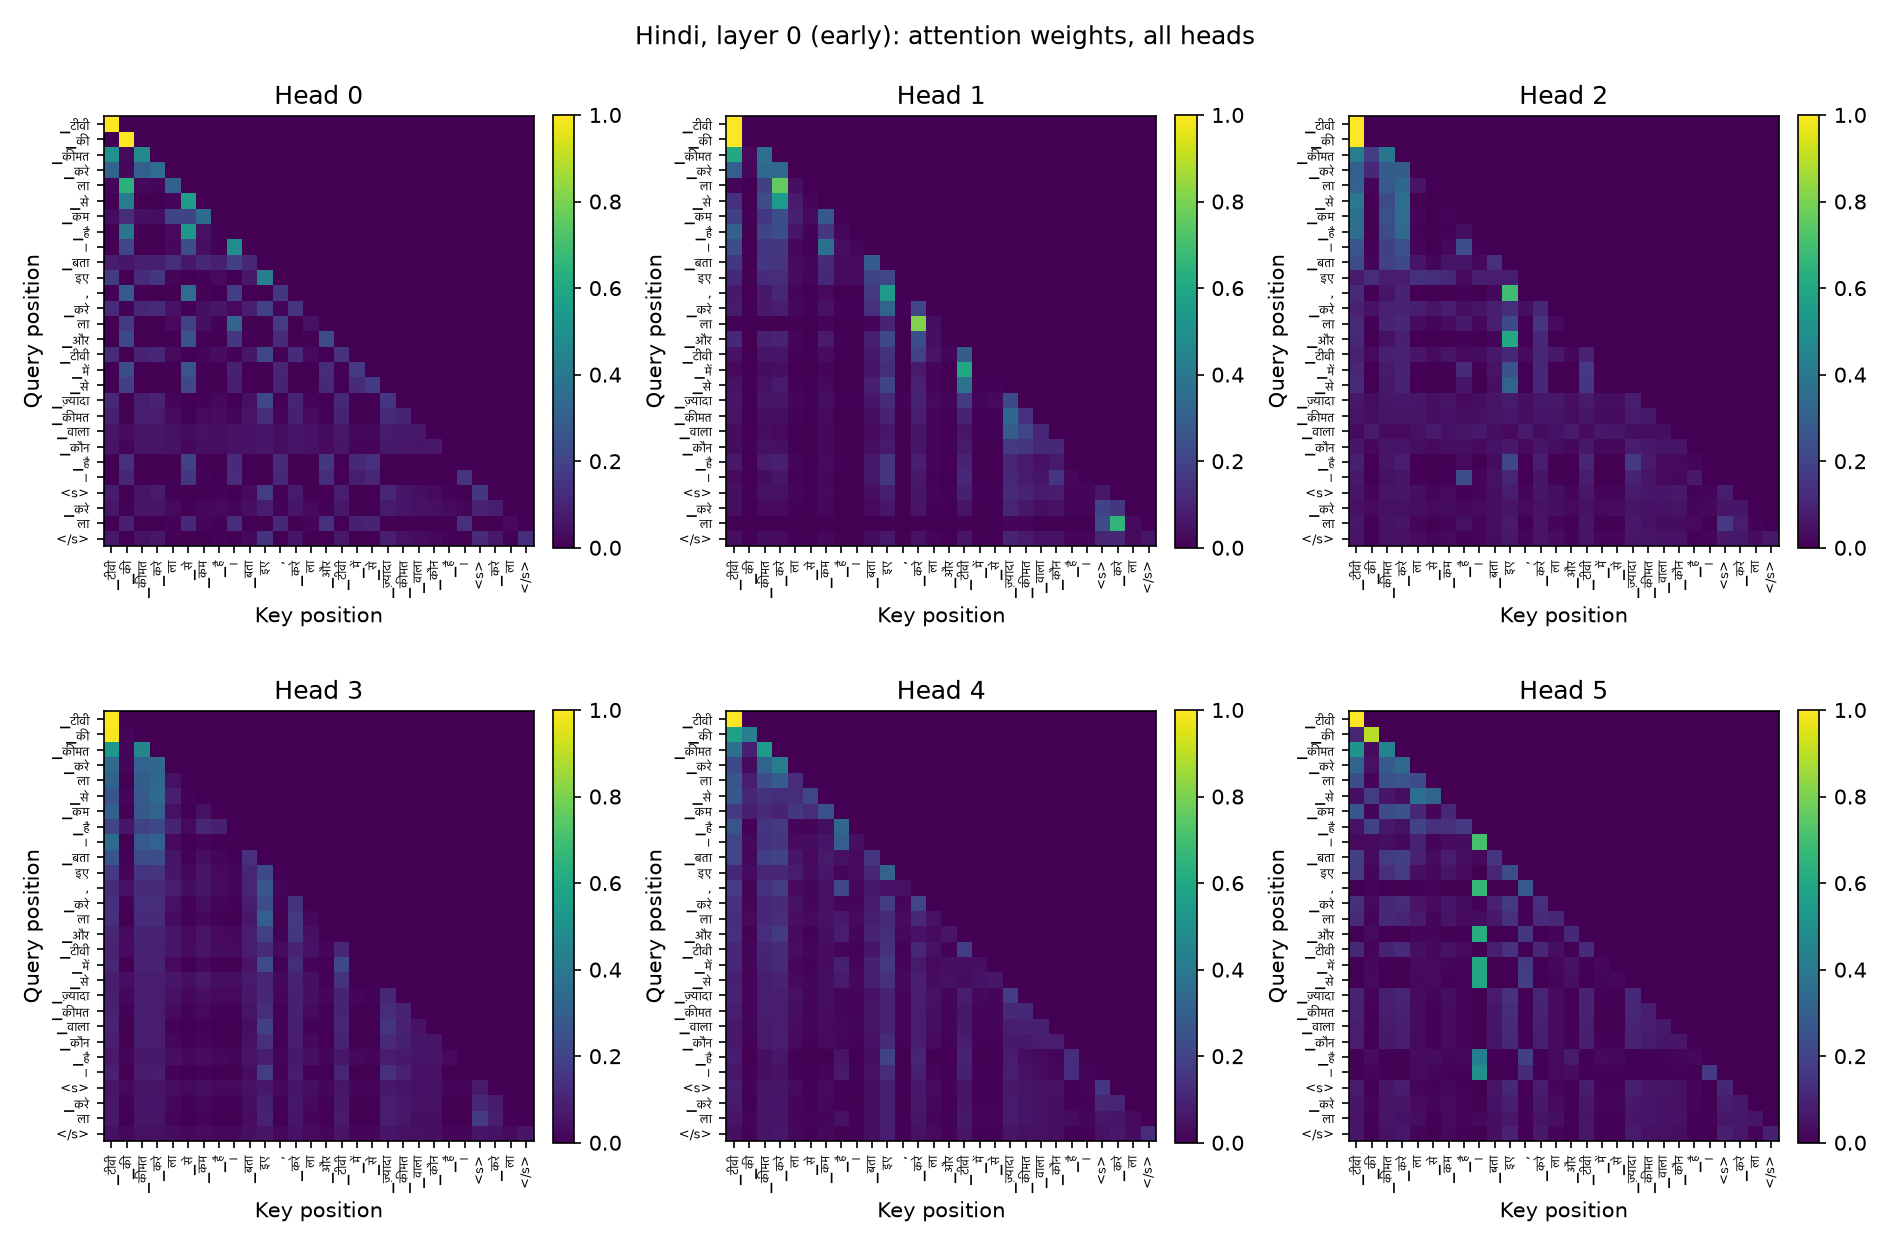
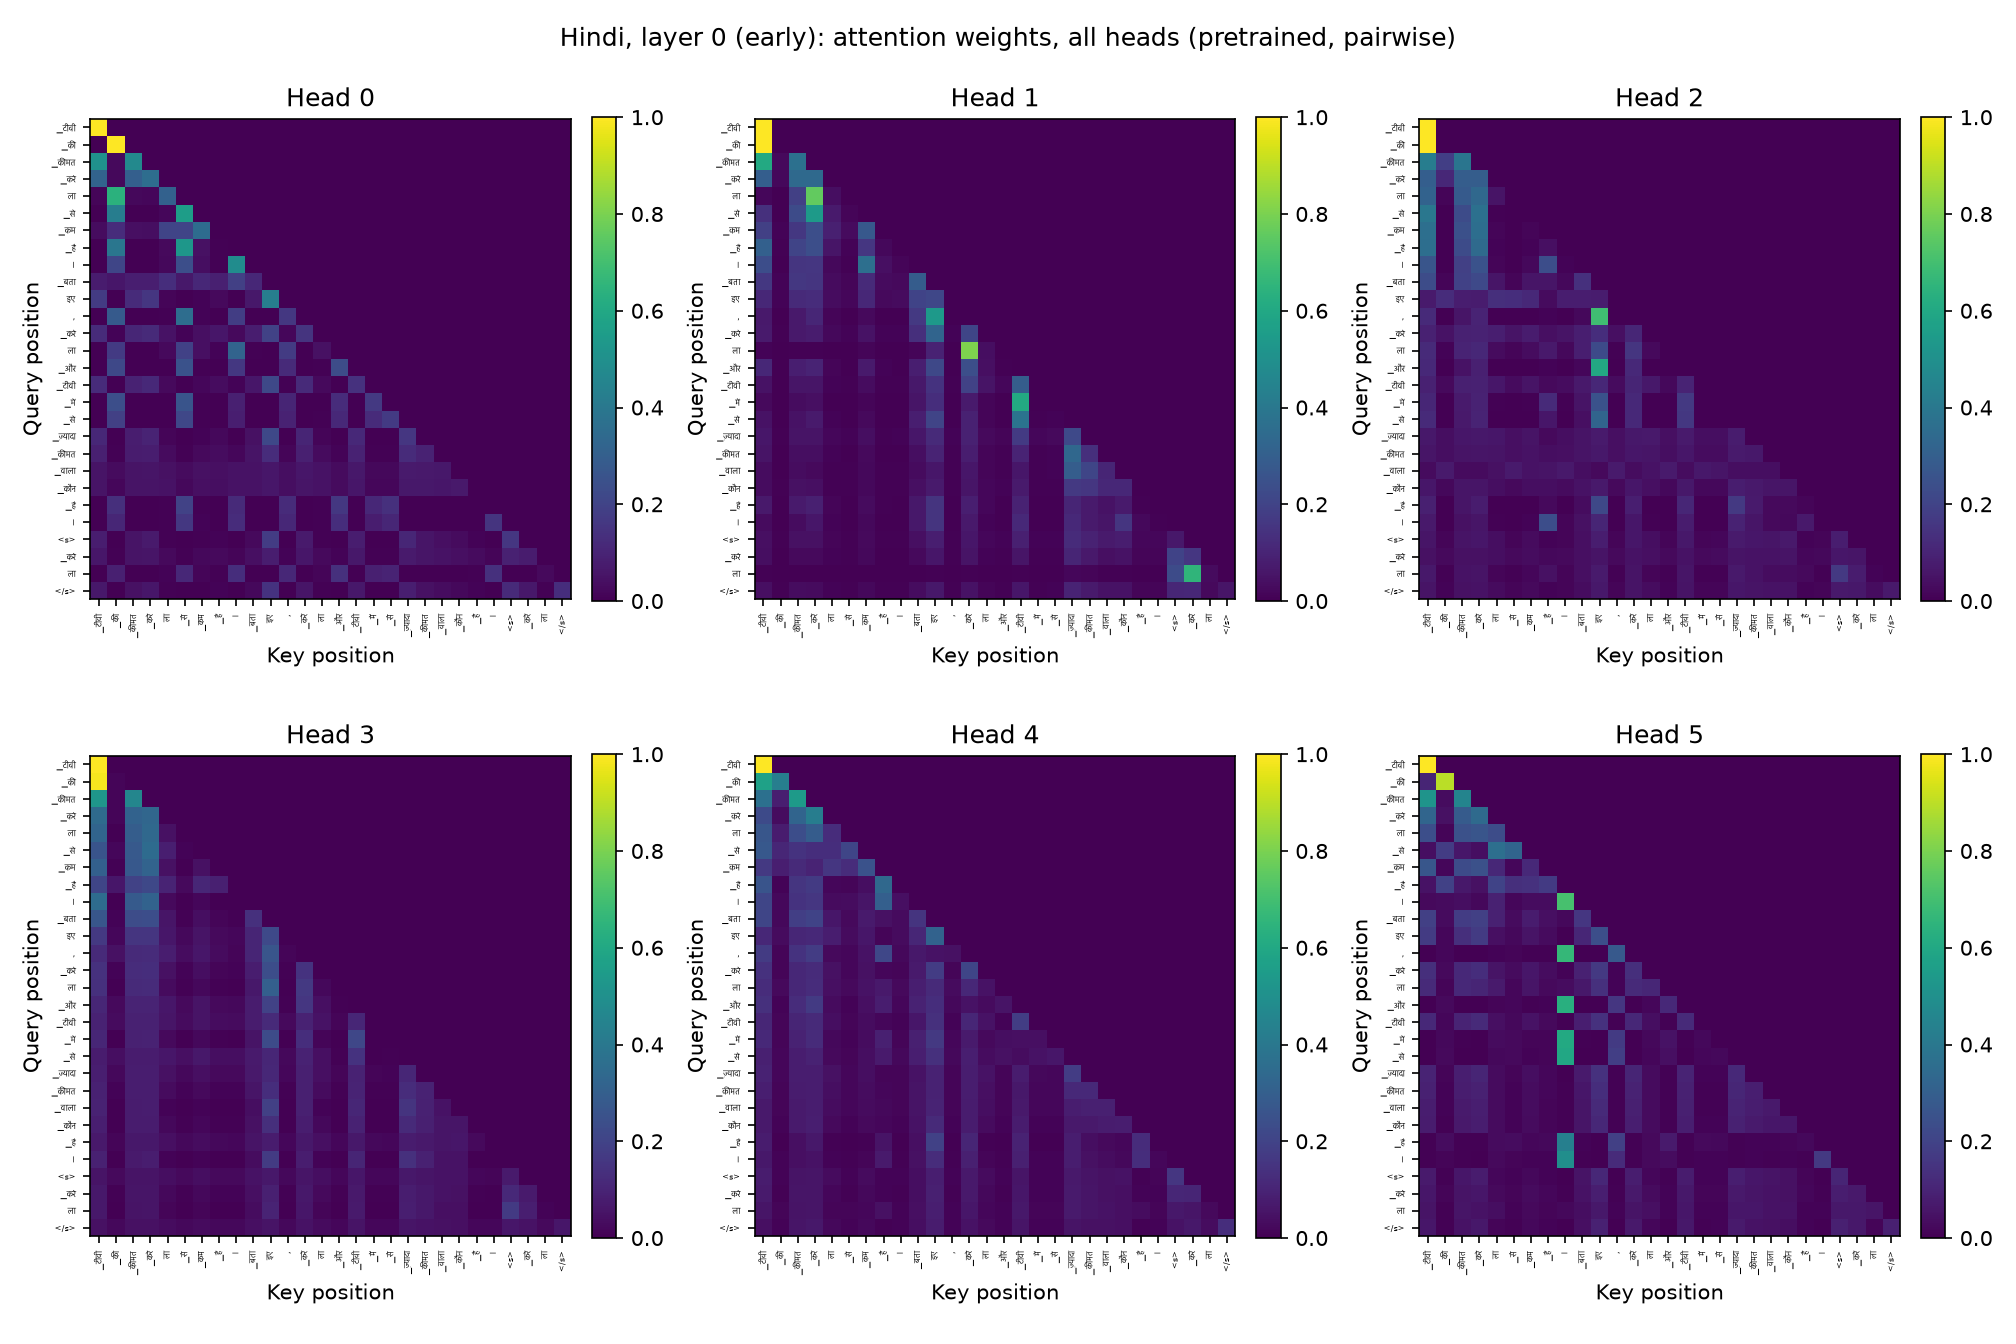
Fix attention heatmap tick overlap and add checkpoint labels to titles
Long reasoning sequences overlapped tick labels at fixed font/figure
size; scale both with sequence length. Titles now identify which
checkpoint and example type each figure shows.

Changed region(s): [[0.0, 0.0, 0.9989, 0.4952], [0.0, 0.5262, 0.9989, 0.9905], [0.8429, 0.3405, 0.8741, 0.3714]]

diff --git a/assamese/eval/attention_analysis.py b/assamese/eval/attention_analysis.py
@@ -125,28 +125,37 @@ def mean_attention_distance_per_head(attn_layer):
     return distances
 
 
-def plot_heatmaps(attn_layer, pieces, layer_label, out_path):
+def plot_heatmaps(attn_layer, pieces, layer_label, out_path, title_suffix=""):
     """One subplot per head, query (rows) vs key (columns) positions,
-    tick labels are the actual token pieces for this example sentence."""
+    tick labels are the actual token pieces for this example sentence.
+    title_suffix (e.g. "pretrained, chained") disambiguates which
+    checkpoint/example a figure came from, since the filename alone
+    isn't visible once the image is viewed on its own."""
     n_head, T, _ = attn_layer.shape
     ncols = min(3, n_head)
     nrows = (n_head + ncols - 1) // ncols
-    fig, axes = plt.subplots(nrows, ncols, figsize=(4.2 * ncols, 4.2 * nrows))
+    # Longer sequences (Phase 3 full prompt+answer, T ~50) need more room
+    # per token and a smaller font than Phase 2's short single sentences
+    # (T ~10-15) did, or tick labels overlap into unreadable text.
+    cell_in = max(4.2, T * 0.16)
+    tick_fontsize = 6 if T <= 20 else max(3, int(6 * 20 / T))
+    fig, axes = plt.subplots(nrows, ncols, figsize=(cell_in * ncols, cell_in * nrows))
     axes = axes.flatten() if n_head > 1 else [axes]
     for h in range(n_head):
         ax = axes[h]
         im = ax.imshow(attn_layer[h].numpy(), cmap="viridis", vmin=0, vmax=attn_layer[h].max().item())
         ax.set_xticks(range(T))
-        ax.set_xticklabels(pieces, rotation=90, fontsize=6)
+        ax.set_xticklabels(pieces, rotation=90, fontsize=tick_fontsize)
         ax.set_yticks(range(T))
-        ax.set_yticklabels(pieces, fontsize=6)
+        ax.set_yticklabels(pieces, fontsize=tick_fontsize)
         ax.set_xlabel("Key position")
         ax.set_ylabel("Query position")
         ax.set_title(f"Head {h}")
         fig.colorbar(im, ax=ax, fraction=0.046, pad=0.04)
     for h in range(n_head, len(axes)):
         axes[h].axis("off")
-    fig.suptitle(f"Assamese, {layer_label}: attention weights, all heads")
+    suffix = f" ({title_suffix})" if title_suffix else ""
+    fig.suptitle(f"Assamese, {layer_label}: attention weights, all heads{suffix}")
     fig.tight_layout()
     fig.savefig(out_path, dpi=150)
     plt.close(fig)
@@ -198,10 +207,11 @@ def run_with_examples(checkpoint_path, sp, examples, checkpoint_label=""):
             distance_by_layer[layer_idx].append(mean_attention_distance_per_head(attn_layer))
 
         if ex_idx == 0:
+            title_suffix = checkpoint_label.replace("_", ", ")
             plot_heatmaps(attentions[early_layer], pieces, f"layer {early_layer} (early)",
-                          FIGURES_DIR / f"{prefix}_early_layer{suffix}.png")
+                          FIGURES_DIR / f"{prefix}_early_layer{suffix}.png", title_suffix=title_suffix)
             plot_heatmaps(attentions[late_layer], pieces, f"layer {late_layer} (late)",
-                          FIGURES_DIR / f"{prefix}_late_layer{suffix}.png")
+                          FIGURES_DIR / f"{prefix}_late_layer{suffix}.png", title_suffix=title_suffix)
             print(f"heatmaps written for example: {seg_text[:60]}...")
 
     n_head = model_config["n_head"]

diff --git a/hindi/eval/attention_analysis.py b/hindi/eval/attention_analysis.py
@@ -125,28 +125,37 @@ def mean_attention_distance_per_head(attn_layer):
     return distances
 
 
-def plot_heatmaps(attn_layer, pieces, layer_label, out_path):
+def plot_heatmaps(attn_layer, pieces, layer_label, out_path, title_suffix=""):
     """One subplot per head, query (rows) vs key (columns) positions,
-    tick labels are the actual token pieces for this example sentence."""
+    tick labels are the actual token pieces for this example sentence.
+    title_suffix (e.g. "pretrained, chained") disambiguates which
+    checkpoint/example a figure came from, since the filename alone
+    isn't visible once the image is viewed on its own."""
     n_head, T, _ = attn_layer.shape
     ncols = min(3, n_head)
     nrows = (n_head + ncols - 1) // ncols
-    fig, axes = plt.subplots(nrows, ncols, figsize=(4.2 * ncols, 4.2 * nrows))
+    # Longer sequences (Phase 3 full prompt+answer, T ~50) need more room
+    # per token and a smaller font than Phase 2's short single sentences
+    # (T ~10-15) did, or tick labels overlap into unreadable text.
+    cell_in = max(4.2, T * 0.16)
+    tick_fontsize = 6 if T <= 20 else max(3, int(6 * 20 / T))
+    fig, axes = plt.subplots(nrows, ncols, figsize=(cell_in * ncols, cell_in * nrows))
     axes = axes.flatten() if n_head > 1 else [axes]
     for h in range(n_head):
         ax = axes[h]
         im = ax.imshow(attn_layer[h].numpy(), cmap="viridis", vmin=0, vmax=attn_layer[h].max().item())
         ax.set_xticks(range(T))
-        ax.set_xticklabels(pieces, rotation=90, fontsize=6)
+        ax.set_xticklabels(pieces, rotation=90, fontsize=tick_fontsize)
         ax.set_yticks(range(T))
-        ax.set_yticklabels(pieces, fontsize=6)
+        ax.set_yticklabels(pieces, fontsize=tick_fontsize)
         ax.set_xlabel("Key position")
         ax.set_ylabel("Query position")
         ax.set_title(f"Head {h}")
         fig.colorbar(im, ax=ax, fraction=0.046, pad=0.04)
     for h in range(n_head, len(axes)):
         axes[h].axis("off")
-    fig.suptitle(f"Hindi, {layer_label}: attention weights, all heads")
+    suffix = f" ({title_suffix})" if title_suffix else ""
+    fig.suptitle(f"Hindi, {layer_label}: attention weights, all heads{suffix}")
     fig.tight_layout()
     fig.savefig(out_path, dpi=150)
     plt.close(fig)
@@ -198,10 +207,11 @@ def run_with_examples(checkpoint_path, sp, examples, checkpoint_label=""):
             distance_by_layer[layer_idx].append(mean_attention_distance_per_head(attn_layer))
 
         if ex_idx == 0:
+            title_suffix = checkpoint_label.replace("_", ", ")
             plot_heatmaps(attentions[early_layer], pieces, f"layer {early_layer} (early)",
-                          FIGURES_DIR / f"{prefix}_early_layer{suffix}.png")
+                          FIGURES_DIR / f"{prefix}_early_layer{suffix}.png", title_suffix=title_suffix)
             plot_heatmaps(attentions[late_layer], pieces, f"layer {late_layer} (late)",
-                          FIGURES_DIR / f"{prefix}_late_layer{suffix}.png")
+                          FIGURES_DIR / f"{prefix}_late_layer{suffix}.png", title_suffix=title_suffix)
             print(f"heatmaps written for example: {seg_text[:60]}...")
 
     n_head = model_config["n_head"]
